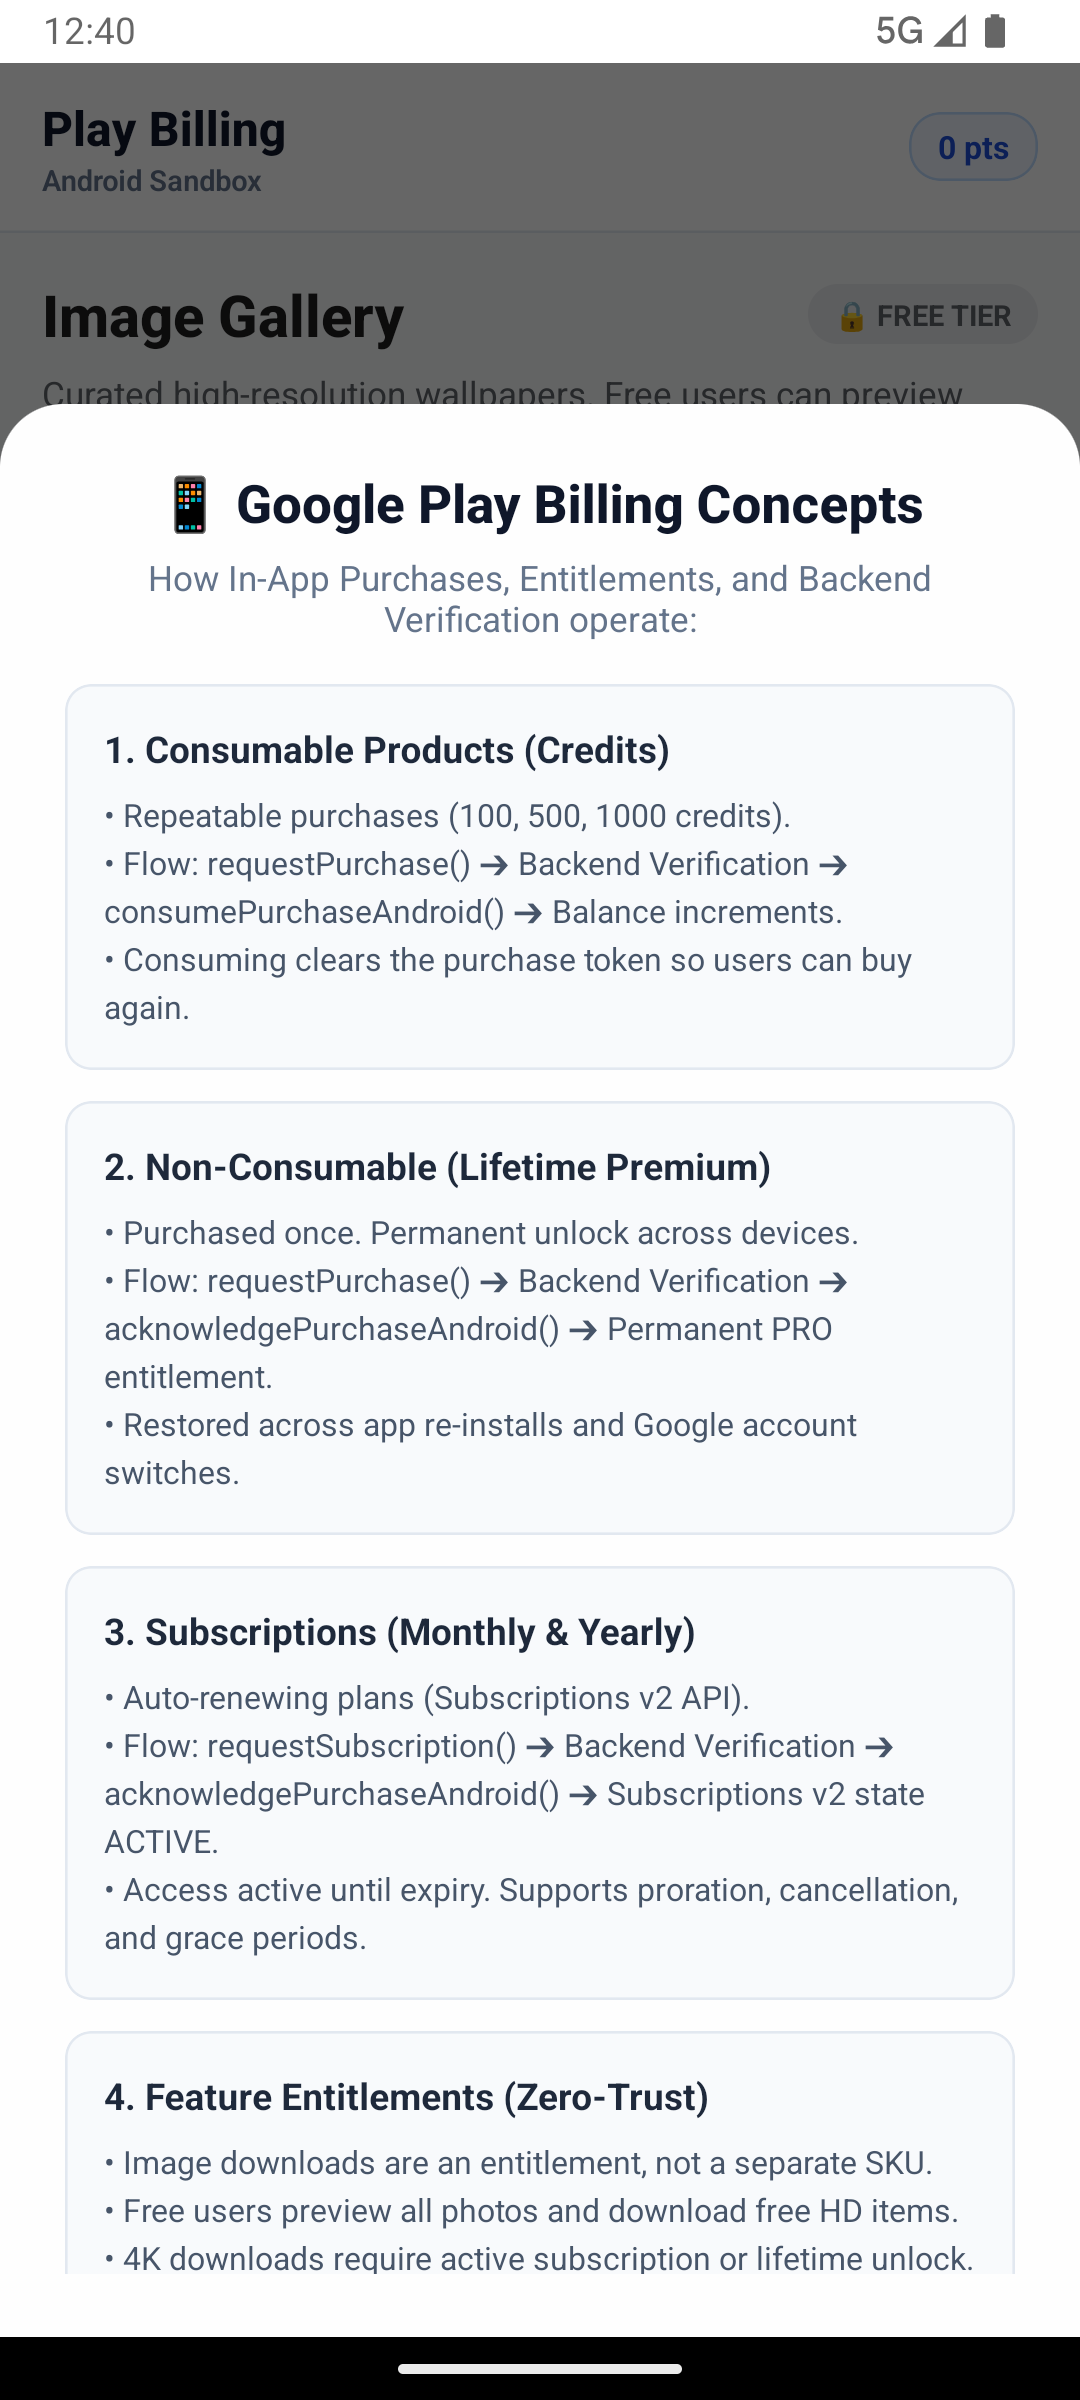
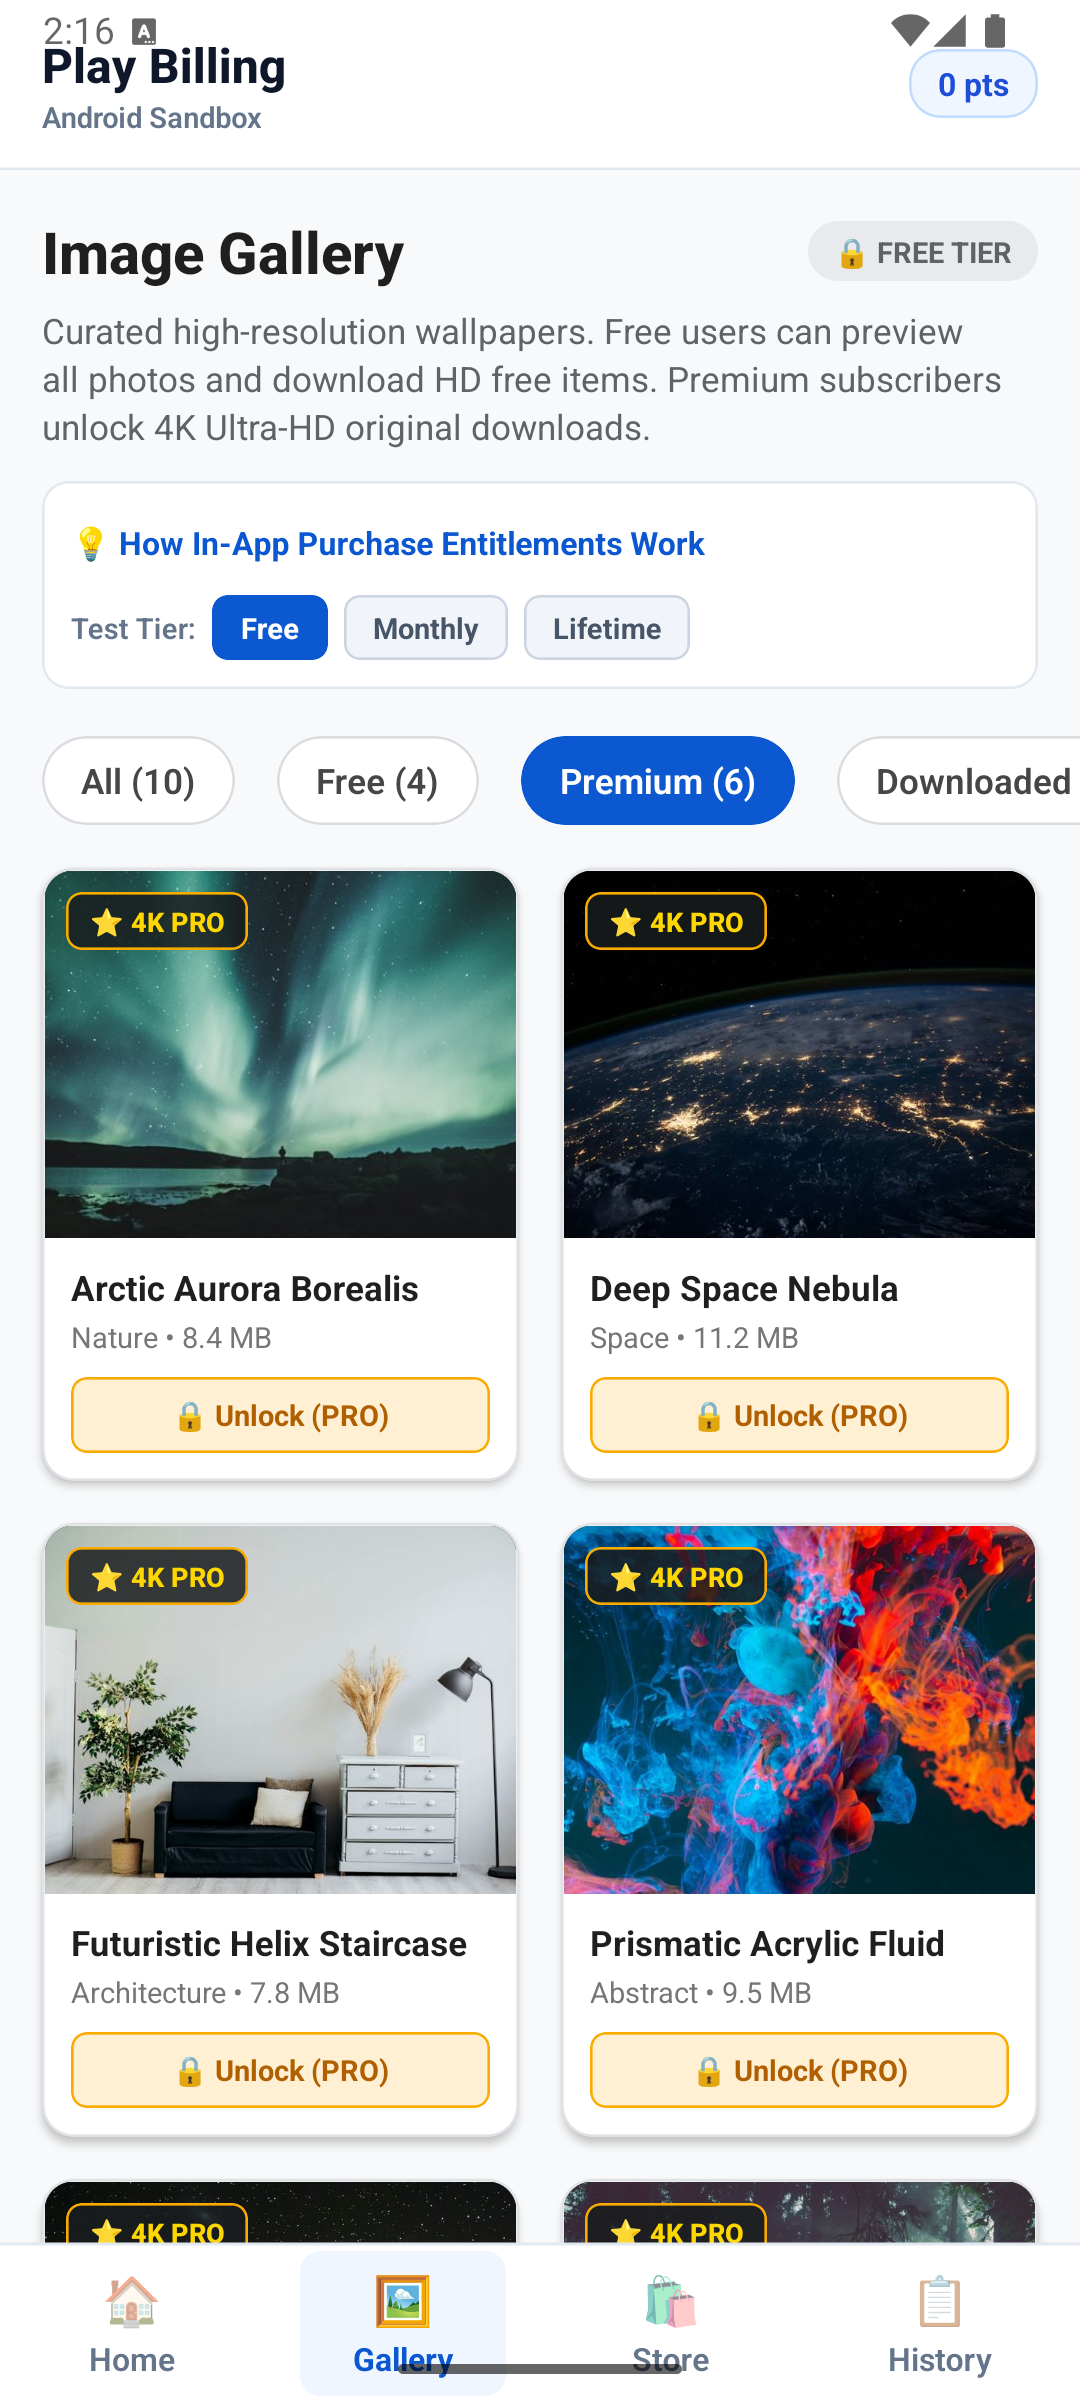
fix(billing): resolve Google Play network/unavailable error with automatic fallback to zero-trust simulator

diff --git a/src/context/BillingContext.tsx b/src/context/BillingContext.tsx
@@ -270,21 +270,29 @@ export const BillingProvider: React.FC<{ children: React.ReactNode }> = ({ child
         return;
       }
 
-      const isSkuNotFound =
-        err.message?.includes('sku was not found') ||
-        err.message?.includes('getItems') ||
-        err.message?.includes('ITEM_UNAVAILABLE');
+      const msg = (err.message || '').toLowerCase();
+      const code = (err.code || '').toLowerCase();
+      const debugMsg = (err.debugMessage || '').toLowerCase();
 
-      if (isSkuNotFound) {
+      const isRecoverableError =
+        msg.includes('sku') ||
+        msg.includes('getitems') ||
+        msg.includes('unavailable') ||
+        msg.includes('network') ||
+        msg.includes('internet') ||
+        msg.includes('service') ||
+        msg.includes('not found') ||
+        code.includes('unavailable') ||
+        code.includes('promise_buy_item') ||
+        code.includes('network') ||
+        debugMsg.includes('sku') ||
+        debugMsg.includes('unavailable') ||
+        (err as any).responseCode === 4;
+
+      if (isRecoverableError || onSimulateFallback || lastAttemptedFallbackRef.current) {
         Alert.alert(
           'Google Play Product Pending Activation',
-          `Google Play has not yet replicated product '${productId}' in your regional store cache.
-
-Causes:
-1. Product was recently created/activated in Play Console and needs propagation time.
-2. Device Play Store cache is pending sync.
-
-💡 Would you like to use "Sandbox Simulator" to complete the purchase, verification, and balance update right now?`,
+          `Google Play has not yet replicated product '${productId}' in your regional store cache (or network was interrupted).\n\nCauses:\n1. Product newly created in Play Console and still propagating.\n2. Device Play Store cache is pending sync.\n\n💡 Would you like to use "Sandbox Simulator" to complete the purchase, verification, and balance update right now?`,
           [
             { text: 'Cancel', style: 'cancel' },
             {
@@ -366,25 +374,16 @@ Causes:
         purchaseErrorSubscription = RNIap.purchaseErrorListener((error: RNIap.PurchaseError) => {
           console.warn('[Billing Engine] purchaseErrorListener:', error);
           setPurchaseInProgress(false);
-          if (error.code === RNIap.ErrorCode.E_USER_CANCELLED) {
+          if (error.code === RNIap.ErrorCode.E_USER_CANCELLED || error.code === 'E_USER_CANCELLED') {
             console.log('[Billing Engine] User canceled payment.');
             return;
           }
 
-          const isSkuNotFound =
-            error.message?.includes('sku was not found') ||
-            error.message?.includes('getItems') ||
-            error.message?.includes('ITEM_UNAVAILABLE');
-
-          if (isSkuNotFound && lastAttemptedFallbackRef.current) {
-            handlePurchaseError(
-              error,
-              lastAttemptedProductIdRef.current || 'selected product',
-              lastAttemptedFallbackRef.current
-            );
-          } else {
-            Alert.alert('Payment Incomplete', error.message || 'Payment was not completed.');
-          }
+          handlePurchaseError(
+            error,
+            lastAttemptedProductIdRef.current || 'selected product',
+            lastAttemptedFallbackRef.current
+          );
         });
 
         // Check for Interrupted Purchases (App killed during purchase / offline recovery)

diff --git a/src/screens/StoreScreen.tsx b/src/screens/StoreScreen.tsx
@@ -15,6 +15,8 @@ export const StoreScreen: React.FC = () => {
   const {
     products,
     purchaseInProgress,
+    isSandboxSimulatorActive,
+    setSandboxSimulatorActive,
     buyConsumable,
     buyLifetimePremium,
     subscribePlan,
@@ -65,6 +67,27 @@ export const StoreScreen: React.FC = () => {
         <Text style={styles.headerSubtitle}>
           Google Play Billing sandbox products. All prices fetched from Play Store.
         </Text>
+      </View>
+
+      {/* Sandbox Simulator Status & Toggle */}
+      <View style={[styles.simBanner, isSandboxSimulatorActive && styles.simBannerActive]}>
+        <View style={{ flex: 1, paddingRight: 10 }}>
+          <Text style={[styles.simBannerTitle, isSandboxSimulatorActive && styles.simBannerTitleActive]}>
+            {isSandboxSimulatorActive ? '🧪 Sandbox Simulator: ON' : '🌐 Google Play Store: LIVE'}
+          </Text>
+          <Text style={styles.simBannerSubtitle}>
+            {isSandboxSimulatorActive
+              ? 'Zero-Trust Mock Backend Active. Instant purchase testing.'
+              : 'Testing directly against Play Console test track & license testers.'}
+          </Text>
+        </View>
+        <TouchableOpacity
+          style={[styles.simBannerBtn, isSandboxSimulatorActive && styles.simBannerBtnActive]}
+          onPress={() => setSandboxSimulatorActive(!isSandboxSimulatorActive)}>
+          <Text style={[styles.simBannerBtnText, isSandboxSimulatorActive && styles.simBannerBtnTextActive]}>
+            {isSandboxSimulatorActive ? 'Use Play' : 'Simulate'}
+          </Text>
+        </TouchableOpacity>
       </View>
 
       {/* SECTION 1: CONSUMABLE CREDITS */}
@@ -231,7 +254,53 @@ const styles = StyleSheet.create({
     paddingBottom: 40,
   },
   header: {
+    marginBottom: 14,
+  },
+  simBanner: {
+    flexDirection: 'row',
+    alignItems: 'center',
+    justifyContent: 'space-between',
+    backgroundColor: '#EFF6FF',
+    borderWidth: 1,
+    borderColor: '#BFDBFE',
+    borderRadius: 10,
+    padding: 12,
     marginBottom: 20,
+  },
+  simBannerActive: {
+    backgroundColor: '#F0FDF4',
+    borderColor: '#86EFAC',
+  },
+  simBannerTitle: {
+    fontSize: 13,
+    fontWeight: '700',
+    color: '#1E40AF',
+  },
+  simBannerTitleActive: {
+    color: '#166534',
+  },
+  simBannerSubtitle: {
+    fontSize: 11,
+    color: '#64748B',
+    marginTop: 2,
+    lineHeight: 15,
+  },
+  simBannerBtn: {
+    backgroundColor: '#3B82F6',
+    paddingHorizontal: 12,
+    paddingVertical: 7,
+    borderRadius: 6,
+  },
+  simBannerBtnActive: {
+    backgroundColor: '#16A34A',
+  },
+  simBannerBtnText: {
+    color: '#FFFFFF',
+    fontWeight: '700',
+    fontSize: 12,
+  },
+  simBannerBtnTextActive: {
+    color: '#FFFFFF',
   },
   headerTitle: {
     fontSize: 26,
